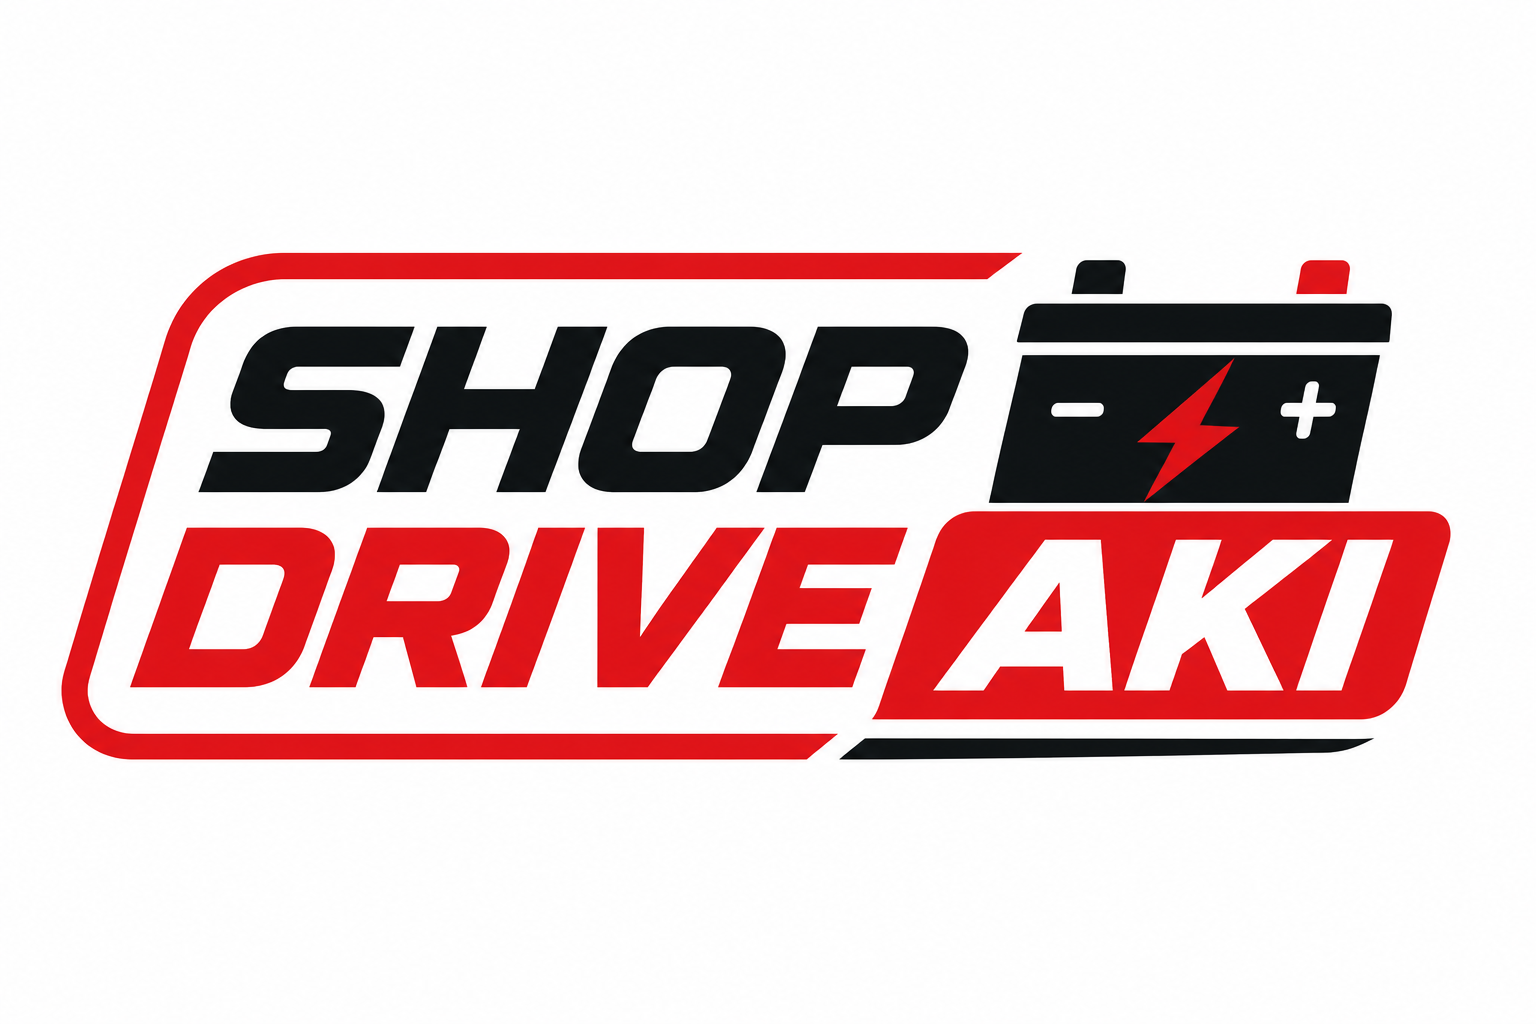
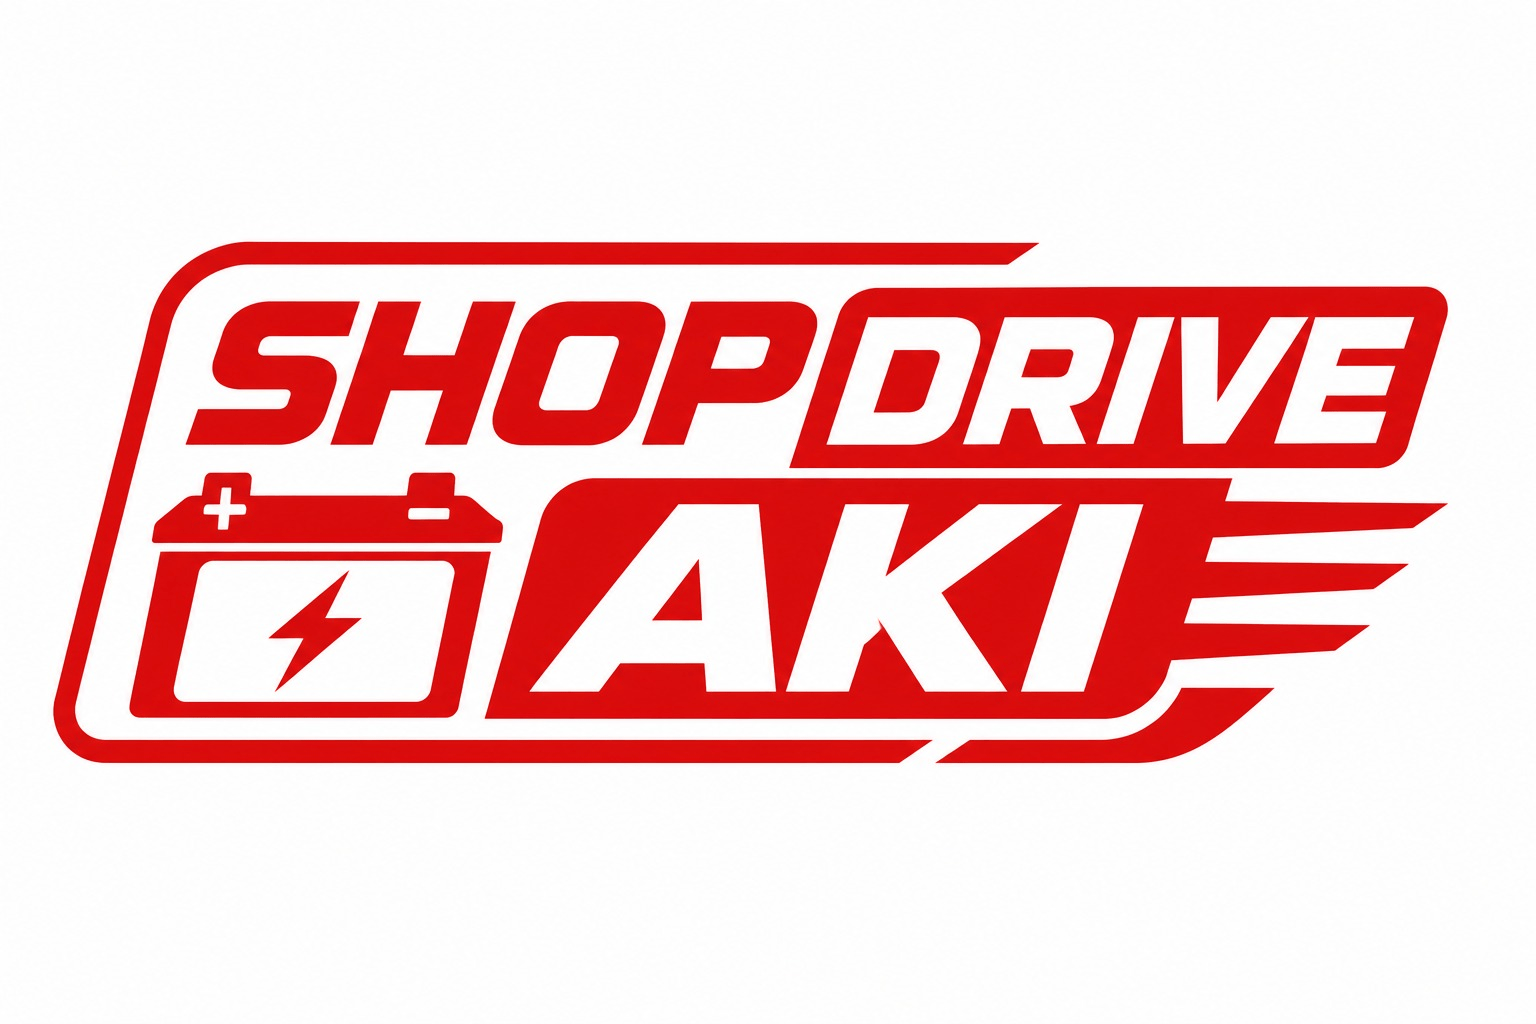
style: update brand text to SHOP DRIVE AKI with space

Changed region(s): [[0.0312, 0.2188, 0.9688, 0.75]]

diff --git a/src/data/mockData.ts b/src/data/mockData.ts
@@ -142,7 +142,7 @@ export const mockTestimonials: ITestimonial[] = [
     carModel: 'Toyota Fortuner 2.4 Diesel',
     city: 'Jakarta Selatan',
     rating: 5,
-    reviewText: 'Mobil mogok pas jam 2 malam di tol Dalam Kota. Panggil ShopDrive Aki via WA, cuma 12 menit teknisi Mas Budi sampai bawa aki GS Astra ori. Tukar tambah juga dihargai tinggi. Penyelamat banget!',
+    reviewText: 'Mobil mogok pas jam 2 malam di tol Dalam Kota. Panggil Shop Drive Aki via WA, cuma 12 menit teknisi Mas Budi sampai bawa aki GS Astra ori. Tukar tambah juga dihargai tinggi. Penyelamat banget!',
     date: 'Kemarin, 02.15 WIB',
     verifiedPurchase: true,
   },
@@ -152,7 +152,7 @@ export const mockTestimonials: ITestimonial[] = [
     carModel: 'Honda HR-V Prestige',
     city: 'Tangerang Selatan',
     rating: 5,
-    reviewText: 'Mau berangkat rapat jam 7 pagi aki tiba-tiba mati total. Untung dapet kontak ShopDrive Aki. Teknisi datang cepat, sopan, langsung riset kelistrikan dan pasang aki Amaron. Garansi 2 tahun terjamin!',
+    reviewText: 'Mau berangkat rapat jam 7 pagi aki tiba-tiba mati total. Untung dapet kontak Shop Drive Aki. Teknisi datang cepat, sopan, langsung riset kelistrikan dan pasang aki Amaron. Garansi 2 tahun terjamin!',
     date: '3 Hari Yang Lalu',
     verifiedPurchase: true,
   },
@@ -171,20 +171,20 @@ export const mockTestimonials: ITestimonial[] = [
 export const mockFAQs: IFAQItem[] = [
   {
     id: 'faq-0',
-    question: 'ShopDrive Aki itu sebenarnya berperan sebagai apa?',
-    answer: 'ShopDrive Aki adalah platform perantara (marketplace) layanan darurat aki yang menghubungkan Anda dengan jaringan teknisi partner independen bersertifikat di berbagai kota. Karena ditangani oleh partner lokal terdekat, harga dan ketersediaan stok dapat menyesuaikan dengan ketentuan partner di masing-masing area.',
+    question: 'Shop Drive Aki itu sebenarnya berperan sebagai apa?',
+    answer: 'Shop Drive Aki adalah platform perantara (marketplace) layanan darurat aki yang menghubungkan Anda dengan jaringan teknisi partner independen bersertifikat di berbagai kota. Karena ditangani oleh partner lokal terdekat, harga dan ketersediaan stok dapat menyesuaikan dengan ketentuan partner di masing-masing area.',
     category: 'PEMESANAN',
   },
   {
     id: 'faq-1',
     question: 'Berapa lama estimasi waktu tunggu kedatangan teknisi ke lokasi saya?',
-    answer: 'Rata-rata kedatangan teknisi ShopDrive Aki adalah 20 hingga 25 menit untuk seluruh wilayah perkotaan utama. Armada teknisi siaga kami disebar di berbagai titik strategis agar respon sangat cepat.',
+    answer: 'Rata-rata kedatangan teknisi Shop Drive Aki adalah 20 hingga 25 menit untuk seluruh wilayah perkotaan utama. Armada teknisi siaga kami disebar di berbagai titik strategis agar respon sangat cepat.',
     category: 'WAKTU TUNGGU',
   },
   {
     id: 'faq-2',
-    question: 'Apakah ShopDrive Aki melayani panggilan penggantian aki di malam atau dini hari?',
-    answer: 'YA, 100% SIAGA 24 JAM NONSTOP! Layanan darurat ShopDrive Aki beroperasi 24 jam sehari, 7 hari seminggu, termasuk tengah malam, dini hari, dan hari libur nasional.',
+    question: 'Apakah Shop Drive Aki melayani panggilan penggantian aki di malam atau dini hari?',
+    answer: 'YA, 100% SIAGA 24 JAM NONSTOP! Layanan darurat Shop Drive Aki beroperasi 24 jam sehari, 7 hari seminggu, termasuk tengah malam, dini hari, dan hari libur nasional.',
     category: 'LAYANAN 24 JAM',
   },
   {
@@ -196,13 +196,13 @@ export const mockFAQs: IFAQItem[] = [
   {
     id: 'faq-4',
     question: 'Bagaimana proses dan syarat klaim garansi resmi aki?',
-    answer: 'Garansi resmi ShopDrive Aki berlaku hingga 24 bulan (tergantung tipe aki). Klaim garansi sangat mudah: cukup hubungi WA CS kami dengan menginfokan nomor garansi digital / pelat nomor kendaraan, teknisi kami akan datang melakukan pengecekan / penggantian unit baru.',
+    answer: 'Garansi resmi Shop Drive Aki berlaku hingga 24 bulan (tergantung tipe aki). Klaim garansi sangat mudah: cukup hubungi WA CS kami dengan menginfokan nomor garansi digital / pelat nomor kendaraan, teknisi kami akan datang melakukan pengecekan / penggantian unit baru.',
     category: 'KLAIM GARANSI',
   },
   {
     id: 'faq-5',
     question: 'Cakupan jenis dan merek mobil apa saja yang bisa ditangani?',
-    answer: 'ShopDrive Aki melayani 99% jenis kendaraan roda empat: City Car, Hatchback, Sedan, SUV, MPV, Mobil Mewah / Eropa (DIN Spec & Start-Stop EFB/AGM), hingga Kendaraan Diesel Commercial & Truck.',
+    answer: 'Shop Drive Aki melayani 99% jenis kendaraan roda empat: City Car, Hatchback, Sedan, SUV, MPV, Mobil Mewah / Eropa (DIN Spec & Start-Stop EFB/AGM), hingga Kendaraan Diesel Commercial & Truck.',
     category: 'CAKUPAN MOBIL',
   },
 ];

diff --git a/src/components/sections/Hero.tsx b/src/components/sections/Hero.tsx
@@ -30,11 +30,11 @@ export const Hero: React.FC = () => {
 
     if (coords) {
       const mapsUrl = `https://maps.google.com/?q=${coords.lat.toFixed(5)},${coords.lng.toFixed(5)}`;
-      message = `Halo ShopDriveAki, saya butuh ganti aki. Lokasi GPS saya : ${mapsUrl}\n\nApakah ada teknisi yang bisa meluncur sekarang?`;
+      message = `Halo Shop Drive Aki, saya butuh ganti aki. Lokasi GPS saya : ${mapsUrl}\n\nApakah ada teknisi yang bisa meluncur sekarang?`;
     } else if (detectedMapsUrl) {
-      message = `Halo ShopDriveAki, saya butuh ganti aki. Lokasi GPS saya : ${detectedMapsUrl}\n\nApakah ada teknisi yang bisa meluncur sekarang?`;
+      message = `Halo Shop Drive Aki, saya butuh ganti aki. Lokasi GPS saya : ${detectedMapsUrl}\n\nApakah ada teknisi yang bisa meluncur sekarang?`;
     } else {
-      message = `Halo ShopDrive Aki, mobil saya mogok dan butuh ganti aki darurat. Lokasi saya ada di: `;
+      message = `Halo Shop Drive Aki, mobil saya mogok dan butuh ganti aki darurat. Lokasi saya ada di: `;
     }
 
     const finalUrl = `https://wa.me/${phone}?text=${encodeURIComponent(message)}`;
@@ -150,7 +150,7 @@ export const Hero: React.FC = () => {
               </h1>
 
               <p className="text-sm sm:text-base text-slate-600 leading-relaxed max-w-xl">
-                Solusi cepat saat mobil mogok karena aki tekor. Tim <strong className="text-slate-900 font-bold">ShopDrive Aki</strong> siap menghubungkan Anda dengan jaringan teknisi partner terdekat untuk antar dan pasang aki original bergaransi resmi langsung di lokasi Anda.
+                Solusi cepat saat mobil mogok karena aki tekor. Tim <strong className="text-slate-900 font-bold">Shop Drive Aki</strong> siap menghubungkan Anda dengan jaringan teknisi partner terdekat untuk antar dan pasang aki original bergaransi resmi langsung di lokasi Anda.
               </p>
             </div>
 
@@ -158,7 +158,7 @@ export const Hero: React.FC = () => {
             <div className="space-y-3 pt-1 sm:pt-2">
               <div className="w-full max-w-md lg:max-w-xl mx-auto lg:mx-0">
                 <a
-                  href={`https://wa.me/${siteConfig.brand.whatsAppNumber}?text=${encodeURIComponent('Halo ShopDrive Aki, mobil saya mogok dan butuh ganti aki darurat. Lokasi saya ada di: ')}`}
+                  href={`https://wa.me/${siteConfig.brand.whatsAppNumber}?text=${encodeURIComponent('Halo Shop Drive Aki, mobil saya mogok dan butuh ganti aki darurat. Lokasi saya ada di: ')}`}
                   onClick={handleMainCTAClick}
                   className="block w-full"
                 >
@@ -277,7 +277,7 @@ export const Hero: React.FC = () => {
               <div className="relative h-40 sm:h-64 w-full rounded-xl overflow-hidden border-2 border-red-500/20 shadow-md group mb-3">
                 <Image
                   src={fotoHero}
-                  alt="Dokumentasi Layanan Home Service ShopDrive Aki"
+                  alt="Dokumentasi Layanan Home Service Shop Drive Aki"
                   fill
                   priority={true}
                   loading="eager"

diff --git a/src/components/sections/Footer.tsx b/src/components/sections/Footer.tsx
@@ -3,7 +3,7 @@
 import React from 'react';
 import Image from 'next/image';
 import { Zap, PhoneCall, ShieldCheck, Globe, Share2, MessageCircle } from 'lucide-react';
-import logoImg from '../../../public/Logo.svg';
+import logoImg from '@/image/Logo.png';
 import { siteConfig } from '../../config/siteConfig';
 import { WhatsAppService } from '../../services/WhatsAppService';
 import { WhatsAppIcon } from '../ui/WhatsAppIcon';
@@ -22,14 +22,14 @@ export const Footer: React.FC = () => {
               <div className="bg-white rounded-xl px-2.5 py-1.5 shadow-md inline-flex items-center justify-center border border-gray-200 shrink-0">
                 <Image
                   src={logoImg}
-                  alt="ShopDrive Aki Logo"
+                  alt="Shop Drive Aki - Layanan Ganti Aki Mobil 24 Jam"
                   height={24}
                   loading="lazy"
                   className="h-6 w-auto object-contain"
                 />
               </div>
               <span className="font-extrabold text-2xl tracking-wider text-white font-display uppercase">
-                SHOP<span className="text-[#DC2626]">DRIVE AKI</span>
+                SHOP <span className="text-[#DC2626]">DRIVE AKI</span>
               </span>
             </div>
             <p className="text-slate-400 text-xs leading-relaxed">
@@ -40,7 +40,7 @@ export const Footer: React.FC = () => {
                 href={siteConfig.socialLinks.instagram}
                 target="_blank"
                 rel="noopener noreferrer"
-                aria-label="Instagram ShopDrive Aki"
+                aria-label="Instagram Shop Drive Aki"
                 className="w-8 h-8 rounded-lg bg-slate-800 border border-slate-700 flex items-center justify-center text-slate-400 hover:text-[#DC2626] hover:border-[#DC2626] transition-all"
               >
                 <Globe className="w-4 h-4" />
@@ -49,7 +49,7 @@ export const Footer: React.FC = () => {
                 href={siteConfig.socialLinks.facebook}
                 target="_blank"
                 rel="noopener noreferrer"
-                aria-label="Facebook ShopDrive Aki"
+                aria-label="Facebook Shop Drive Aki"
                 className="w-8 h-8 rounded-lg bg-slate-800 border border-slate-700 flex items-center justify-center text-slate-400 hover:text-[#DC2626] hover:border-[#DC2626] transition-all"
               >
                 <Share2 className="w-4 h-4" />
@@ -58,7 +58,7 @@ export const Footer: React.FC = () => {
                 href={siteConfig.socialLinks.tiktok}
                 target="_blank"
                 rel="noopener noreferrer"
-                aria-label="TikTok ShopDrive Aki"
+                aria-label="TikTok Shop Drive Aki"
                 className="w-8 h-8 rounded-lg bg-slate-800 border border-slate-700 flex items-center justify-center text-slate-400 hover:text-[#DC2626] hover:border-[#DC2626] transition-all"
               >
                 <MessageCircle className="w-4 h-4" />

diff --git a/src/services/WhatsAppService.ts b/src/services/WhatsAppService.ts
@@ -15,7 +15,7 @@ export class WhatsAppService {
    */
   public static buildEmergencyCallUrl(userLocation?: string): string {
     const areaText = userLocation ? ` di area ${userLocation}` : '';
-    const message = `Halo ShopDrive Aki, mobil saya mogok dan butuh ganti aki darurat${areaText}. Lokasi saya ada di: `;
+    const message = `Halo Shop Drive Aki, mobil saya mogok dan butuh ganti aki darurat${areaText}. Lokasi saya ada di: `;
     return `${this.BASE_URL}${this.PHONE}?text=${encodeURIComponent(message)}`;
   }
 
@@ -33,10 +33,10 @@ export class WhatsAppService {
       if (coords) {
         const mapsUrl = `https://maps.google.com/?q=${coords.lat.toFixed(5)},${coords.lng.toFixed(5)}`;
         const areaText = locationName ? ` di area ${locationName}` : '';
-        message = `Halo ShopDriveAki, saya butuh ganti aki${areaText}. Lokasi GPS saya : ${mapsUrl}\n\nApakah ada teknisi yang bisa meluncur sekarang?`;
+        message = `Halo Shop Drive Aki, saya butuh ganti aki${areaText}. Lokasi GPS saya : ${mapsUrl}\n\nApakah ada teknisi yang bisa meluncur sekarang?`;
       } else {
         const areaText = locationName ? ` di area ${locationName}` : '';
-        message = `Halo ShopDrive Aki, mobil saya mogok dan butuh ganti aki darurat${areaText}. Lokasi saya ada di: `;
+        message = `Halo Shop Drive Aki, mobil saya mogok dan butuh ganti aki darurat${areaText}. Lokasi saya ada di: `;
       }
 
       const finalUrl = `${this.BASE_URL}${phone}?text=${encodeURIComponent(message)}`;
@@ -96,9 +96,9 @@ export class WhatsAppService {
     let message = '';
     
     if (locationName) {
-      message = `Halo ShopDriveAki, saya butuh ganti aki di area ${locationName}. Lokasi GPS saya : ${gpsLocationStr}\n\nApakah ada teknisi yang bisa meluncur sekarang?`;
+      message = `Halo Shop Drive Aki, saya butuh ganti aki di area ${locationName}. Lokasi GPS saya : ${gpsLocationStr}\n\nApakah ada teknisi yang bisa meluncur sekarang?`;
     } else {
-      message = `Halo ShopDriveAki, saya butuh ganti aki. Lokasi GPS saya : ${gpsLocationStr}\n\nApakah ada teknisi yang bisa meluncur sekarang?`;
+      message = `Halo Shop Drive Aki, saya butuh ganti aki. Lokasi GPS saya : ${gpsLocationStr}\n\nApakah ada teknisi yang bisa meluncur sekarang?`;
     }
 
     const finalUrl = `${this.BASE_URL}${phone}?text=${encodeURIComponent(message)}`;
@@ -149,7 +149,7 @@ export class WhatsAppService {
    * Build general FAQ consultation inquiry link (No GPS required)
    */
   public static buildFaqConsultationUrl(): string {
-    const message = 'Halo ShopDrive Aki, mau tanya-tanya dulu seputar pilihan aki, harga, dan garansinya dong.';
+    const message = 'Halo Shop Drive Aki, mau tanya-tanya dulu seputar pilihan aki, harga, dan garansinya dong.';
     return `${this.BASE_URL}${this.PHONE}?text=${encodeURIComponent(message)}`;
   }
 

diff --git a/src/app/layout.tsx b/src/app/layout.tsx
@@ -21,23 +21,23 @@ const redHat = Red_Hat_Display({
 
 export const metadata: Metadata = {
   metadataBase: new URL('https://www.shopdriveaki.com'),
-  title: 'ShopDrive Aki 24 Jam | Layanan Antar Pasang Aki Mobil Terdekat',
+  title: 'Shop Drive Aki 24 Jam | Layanan Antar Pasang Aki Mobil Terdekat',
   description:
     'Mobil mogok karena aki tekor? Layanan ganti aki 24 jam siap meluncur ke lokasi Anda! Aki 100% original, gratis antar pasang, garansi resmi. Panggil sekarang!',
-  applicationName: 'ShopDrive Aki',
-  authors: [{ name: 'ShopDrive Aki' }],
-  keywords: ['shopdrive aki', 'ganti aki mobil', 'toko aki terdekat', 'layanan aki 24 jam'],
+  applicationName: 'Shop Drive Aki',
+  authors: [{ name: 'Shop Drive Aki' }],
+  keywords: ['shop drive aki', 'ganti aki mobil', 'toko aki terdekat', 'layanan aki 24 jam'],
   icons: {
-    icon: '/icon.png',
-    shortcut: '/icon.png',
-    apple: '/icon.png',
+    icon: '/Logo.png',
+    shortcut: '/Logo.png',
+    apple: '/Logo.png',
   },
   openGraph: {
-    title: 'ShopDrive Aki 24 Jam | Layanan Antar Pasang Aki Mobil Terdekat',
+    title: 'Shop Drive Aki 24 Jam | Layanan Antar Pasang Aki Mobil Terdekat',
     description:
       'Mobil mogok karena aki tekor? Layanan ganti aki 24 jam siap meluncur ke lokasi Anda! Aki 100% original, gratis antar pasang, garansi resmi. Panggil sekarang!',
     url: 'https://www.shopdriveaki.com',
-    siteName: 'ShopDrive Aki 24 Jam',
+    siteName: 'Shop Drive Aki 24 Jam',
     locale: 'id_ID',
     type: 'website',
     images: [
@@ -45,13 +45,13 @@ export const metadata: Metadata = {
         url: '/og-image.png',
         width: 1200,
         height: 630,
-        alt: 'ShopDrive Aki 24 Jam',
+        alt: 'Shop Drive Aki 24 Jam',
       },
     ],
   },
   twitter: {
     card: 'summary_large_image',
-    title: 'ShopDrive Aki 24 Jam | Layanan Antar Pasang Aki Mobil Terdekat',
+    title: 'Shop Drive Aki 24 Jam | Layanan Antar Pasang Aki Mobil Terdekat',
     description:
       'Mobil mogok karena aki tekor? Layanan ganti aki 24 jam siap meluncur ke lokasi Anda! Aki 100% original, gratis antar pasang, garansi resmi. Panggil sekarang!',
     images: ['/og-image.png'],

diff --git a/src/components/sections/Navbar.tsx b/src/components/sections/Navbar.tsx
@@ -3,7 +3,7 @@
 import React, { useState, useEffect } from 'react';
 import Image from 'next/image';
 import { Zap, PhoneCall, MessageSquare, Menu, X } from 'lucide-react';
-import logoImg from '../../../public/Logo.svg';
+import logoImg from '@/image/Logo.png';
 import { WhatsAppService } from '../../services/WhatsAppService';
 import { Button } from '../ui/Button';
 import { WhatsAppIcon } from '../ui/WhatsAppIcon';
@@ -75,7 +75,7 @@ export const Navbar: React.FC = () => {
           <div className="bg-white rounded-xl px-2 py-1 sm:px-2.5 sm:py-1.5 shadow-sm inline-flex items-center justify-center border border-gray-200 group-hover:scale-105 transition-transform shrink-0">
             <Image
               src={logoImg}
-              alt="ShopDrive Aki Logo"
+              alt="Shop Drive Aki - Layanan Ganti Aki Mobil 24 Jam"
               height={32}
               priority
               className="h-6 sm:h-8 w-auto object-contain"
@@ -84,7 +84,7 @@ export const Navbar: React.FC = () => {
           <div className="flex flex-col">
             <div className="flex items-center gap-1 sm:gap-1.5">
               <span className="font-black text-sm sm:text-xl lg:text-2xl tracking-tight text-slate-900 font-display uppercase leading-none">
-                SHOP<span className="text-[#DC2626]">DRIVE</span> <span className="text-[#DC2626]">AKI</span>
+                SHOP <span className="text-[#DC2626]">DRIVE AKI</span>
               </span>
               <span className="bg-[#DC2626] text-white text-[9px] sm:text-[10px] font-bold px-1 sm:px-1.5 py-0.5 rounded shrink-0">
                 24 JAM

diff --git a/src/components/common/MobileStickyCTA.tsx b/src/components/common/MobileStickyCTA.tsx
@@ -14,7 +14,7 @@ export const MobileStickyCTA: React.FC = () => {
         <a
           href={WhatsAppService.buildPhoneCallUrl()}
           className="flex items-center justify-center gap-1.5 min-h-[42px] py-2 px-2.5 rounded-xl bg-[#DC2626] active:bg-[#B91C1C] text-white font-extrabold text-xs uppercase tracking-wider shadow-md active:scale-[0.98] transition-all"
-          aria-label="Panggil Telepon Darurat ShopDrive Aki"
+          aria-label="Panggil Telepon Darurat Shop Drive Aki"
         >
           <PhoneCall className="w-4 h-4 fill-white text-white shrink-0" />
           <span className="truncate font-display">SOS TELEPON</span>
@@ -30,7 +30,7 @@ export const MobileStickyCTA: React.FC = () => {
             WhatsAppService.openEmergencyWhatsAppWithGPS();
           }}
           className="flex items-center justify-center gap-1.5 min-h-[42px] py-2 px-2.5 rounded-xl bg-[#25D366] active:bg-[#20bd5a] text-white font-extrabold text-xs uppercase tracking-wider shadow-md active:scale-[0.98] transition-all cursor-pointer"
-          aria-label="Chat WhatsApp Darurat ShopDrive Aki"
+          aria-label="Chat WhatsApp Darurat Shop Drive Aki"
         >
           <WhatsAppIcon className="w-4 h-4 text-white shrink-0" />
           <span className="truncate font-display">CHAT WHATSAPP</span>

diff --git a/src/components/sections/FAQ.tsx b/src/components/sections/FAQ.tsx
@@ -22,7 +22,7 @@ export const FAQ: React.FC = () => {
             Pertanyaan Yang Sering <span className="text-red-600">Diajukan</span>
           </h2>
           <p className="text-slate-600 text-xs sm:text-lg">
-            Segala hal yang perlu Anda ketahui mengenai pemesanan, layanan darurat 24 jam, dan klaim garansi resmi ShopDrive Aki.
+            Segala hal yang perlu Anda ketahui mengenai pemesanan, layanan darurat 24 jam, dan klaim garansi resmi Shop Drive Aki.
           </p>
         </div>
 
@@ -35,7 +35,7 @@ export const FAQ: React.FC = () => {
             Punya Pertanyaan Lain Yang Belum Terjawab?
           </h3>
           <p className="text-slate-600 text-xs sm:text-sm max-w-md mx-auto">
-            Tim customer support dan konsultan teknis ShopDrive Aki siap membantu melayani pertanyaan Anda 24 jam nonstop.
+            Tim customer support dan konsultan teknis Shop Drive Aki siap membantu melayani pertanyaan Anda 24 jam nonstop.
           </p>
           <a
             href={WhatsAppService.buildFaqConsultationUrl()}

diff --git a/src/components/sections/ServiceArea.tsx b/src/components/sections/ServiceArea.tsx
@@ -62,7 +62,7 @@ export const ServiceArea: React.FC = () => {
             <span className="text-red-600">Di Mana Pun Anda Mogok, Kami Siap Meluncur</span>
           </h2>
           <p className="text-slate-600 text-xs sm:text-lg leading-relaxed max-w-2xl mx-auto">
-            Jaringan mitra &amp; teknisi partner ShopDrive Aki tersebar di pulau Jawa, Sumatera, Kalimantan, Sulawesi, Bali, hingga wilayah lainnya di seluruh Indonesia.
+            Jaringan mitra &amp; teknisi partner Shop Drive Aki tersebar di pulau Jawa, Sumatera, Kalimantan, Sulawesi, Bali, hingga wilayah lainnya di seluruh Indonesia.
           </p>
         </div>
 
@@ -93,7 +93,7 @@ export const ServiceArea: React.FC = () => {
 
               {/* Embedded Google Maps iFrame */}
               <iframe
-                title={`ShopDrive Aki Google Map ${activeMapCity.name}`}
+                title={`Shop Drive Aki Google Map ${activeMapCity.name}`}
                 width="100%"
                 height="100%"
                 style={{

diff --git a/src/components/sections/HowItWorks.tsx b/src/components/sections/HowItWorks.tsx
@@ -38,8 +38,8 @@ export const HowItWorks: React.FC = () => {
           <div className="inline-flex items-center gap-2 px-3 py-1 sm:px-3.5 sm:py-1.5 rounded-full bg-red-50 border border-red-200 text-red-600 text-[10px] sm:text-xs font-bold uppercase tracking-wider shadow-sm">
             <span>PROSES PENANGANAN MEKANIK</span>
           </div>
-          <h2 className="text-2xl sm:text-4xl lg:text-5xl font-extrabold uppercase text-slate-900 tracking-tight font-display">
-            Cara Kerja <span className="text-red-600">ShopDrive Aki</span>
+          <h2 className="text-2xl sm:text-4xl lg:text-5xl font-extrabold text-slate-900 uppercase tracking-tight font-display">
+            Cara Kerja <span className="text-red-600">Shop Drive Aki</span>
           </h2>
           <p className="text-slate-600 text-xs sm:text-lg">
             Sistem pengiriman &amp; pemasangan darurat 4 langkah presisi tanpa ribet.

diff --git a/src/config/siteConfig.ts b/src/config/siteConfig.ts
@@ -6,14 +6,14 @@
 
 export const siteConfig = {
   brand: {
-    name: "ShopDrive Aki",
+    name: "Shop Drive Aki",
     tagline: "Layanan Ganti Aki Mobil 24 Jam Antar & Pasang Lokasi",
     domain: "shopdriveaki.com",
     establishedYear: 2018,
     emergencyPhone: "+6281585564232",
     emergencyPhoneDisplay: "0815-8556-4232",
     whatsAppNumber: "6281585564232",
-    defaultWhatsAppMessage: "Halo ShopDriveAki, saya butuh ganti aki. Lokasi GPS saya : (share loc)\n\nApakah ada teknisi yang bisa meluncur sekarang?",
+    defaultWhatsAppMessage: "Halo Shop Drive Aki, saya butuh ganti aki. Lokasi GPS saya : (share loc)\n\nApakah ada teknisi yang bisa meluncur sekarang?",
     operationalHours: "24 Jam Nonstop (365 Hari)",
     averageArrivalMinutes: 5,
     warrantyMonthsDefault: 24,

diff --git a/src/components/sections/Testimonials.tsx b/src/components/sections/Testimonials.tsx
@@ -26,7 +26,7 @@ export const Testimonials: React.FC = () => {
             <span>KATA PENGENDARA</span>
           </div>
           <h2 className="text-2xl sm:text-4xl lg:text-5xl font-extrabold uppercase text-slate-900 tracking-tight font-display">
-            Pengalaman Pengendara <span className="text-red-600">ShopDrive Aki</span>
+            Pengalaman Pengendara <span className="text-red-600">Shop Drive Aki</span>
           </h2>
           <p className="text-slate-600 text-xs sm:text-lg">
             Dipercaya oleh 150.000+ pengendara mobil yang terselamatkan saat situasi darurat di jalan.
